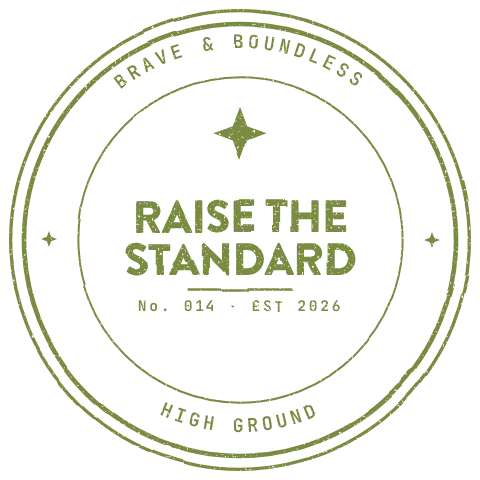
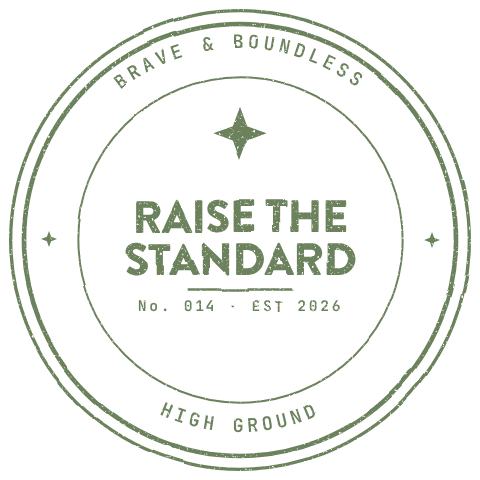
Stamps inked in their part's colour
Claude-Session: https://claude.ai/code/session_01AJAbXSt1J9kHZSAnbJXuQR

diff --git a/src/features/stamps/stamps.ts b/src/features/stamps/stamps.ts
@@ -32,11 +32,11 @@ export function earnedStamps(data: DrillData): Stamp[] {
 /**
  * Stamp art, rendered from the brand's passport-stamp SVGs. Rules 1, 2, 3, 6,
  * 9, 14, 15 are the brand's own stamps; the other 8 were built from the same
- * template. The app shows them on the dark ground with no paper behind, so the
- * inks are lightened (same hue, ≥ 5:1 on black): crimson #7A1E22 → #D75A60,
- * orange #C64A1E → #DE5525, slate #4F5B61 → #74858E, olive #4F5B2A → #798C41.
- * Sources: assets/source/stamps (brand inks) and assets/source/stamps/dark
- * (what ships). `ratio` = width / height.
+ * template. On the dark ground each stamp is inked in its part's text colour
+ * (Mark, 2026-11-09), the same as the part headlines: FIRE (1–4) #D64A5D,
+ * FORGE (5–8) #D1542C, FOUNDATION (9–12) #6C7F83, FIELD (13–15) #6C825C,
+ * all ≥ 4.5:1 on black. Sources: assets/source/stamps (brand inks) and
+ * assets/source/stamps/dark (what ships). `ratio` = width / height.
  */
 export const stampArt: Record<RuleId, { source: ImageSourcePropType; ratio: number }> = {
   1: { source: require('../../../assets/images/stamps/01.webp'), ratio: 1 },

diff --git a/CLAUDE.md b/CLAUDE.md
@@ -231,3 +231,4 @@ Seed `rules` from `content/bb-rule-cards.json` via a migration script; the JSON 
 - 2026-11-07 — **Website link** (Mark) leads the social row: a plain globe (drawn for the app, same white-PNG-tinted approach) opening https://braveandboundless.com; VoiceOver reads "braveandboundless.com".
 - 2026-11-07 — **Tab order** (Mark): Today · Rules · Ask Mark · **Journal** · Community.
 - 2026-11-07 — **Required sign-up ships switched off** (Mark): `features.requireAccounts = false` in `src/lib/features.ts`, so PR #26 could merge (tabs, social links, Settings newsletter) before sign-in codes reach everyone. Off, accounts stay optional exactly as before. Turn it on, as an over-the-air update, once custom SMTP is connected in Supabase and a code reaches a non-team address.
+- 2026-11-09 — **Stamps in their part's colour** (Mark): each passport stamp is inked in its part's headline colour (`palette.partText`) instead of the four brand inks assigned stamp by stamp — FIRE 1–4 `#D64A5D`, FORGE 5–8 `#D1542C`, FOUNDATION 9–12 `#6C7F83`, FIELD 13–15 `#6C825C` (all in the contrast test). Recoloured from the shipped WebPs (ink replaced, alpha and grain kept) so the lettering is unchanged; the dark SVG sources updated to match. Images only, so it ships as an update.
